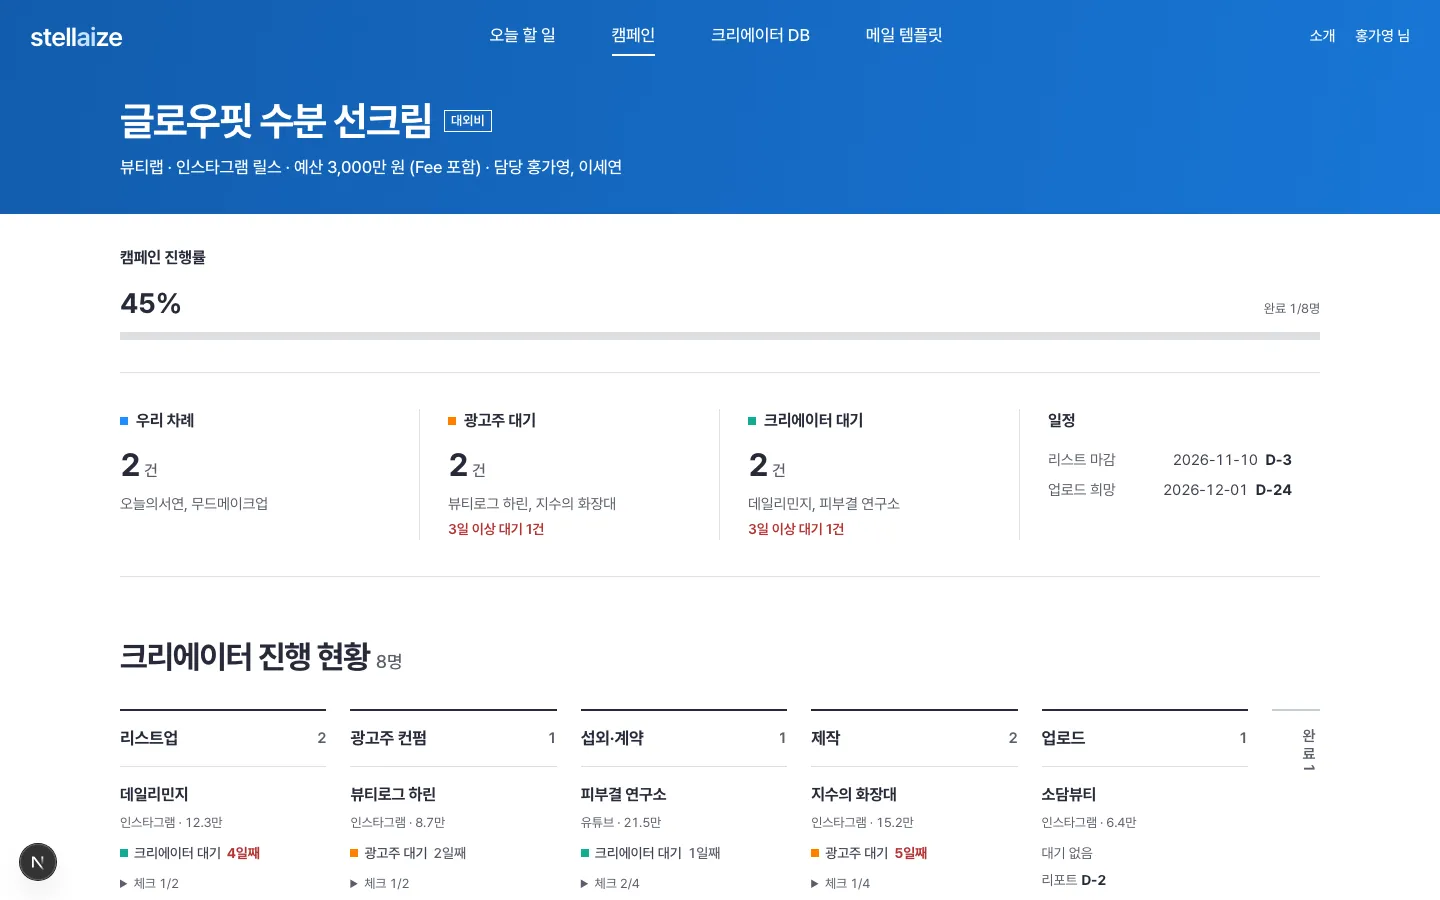
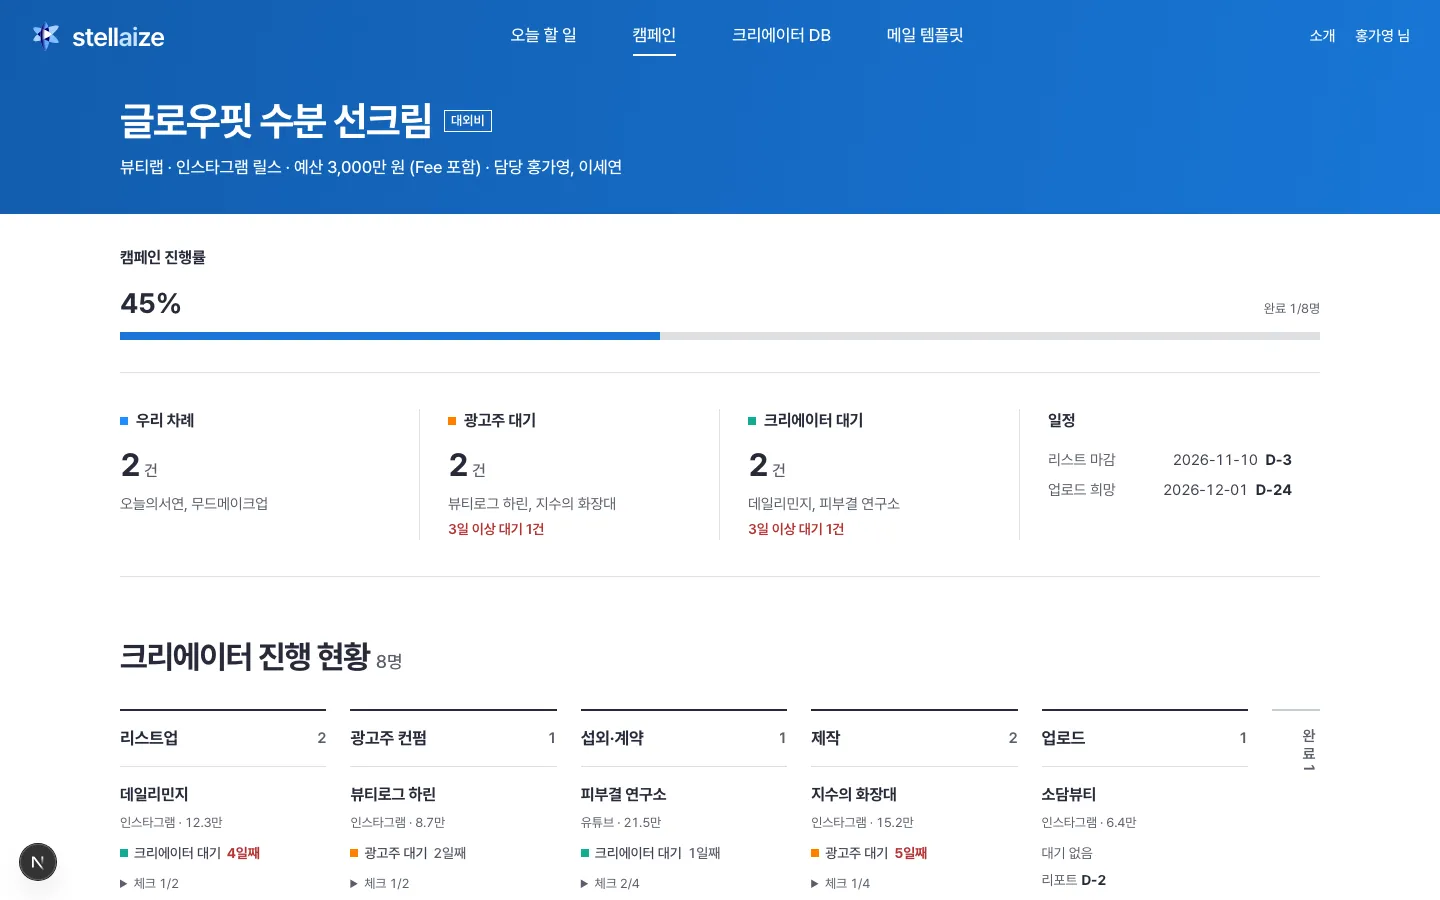
Header uses the Stellaize symbol; drop periods in the about headline

diff --git a/components/SiteHeader.tsx b/components/SiteHeader.tsx
@@ -17,9 +17,14 @@ export function SiteHeader({ userName }: { userName: string }) {
   return (
     <header className="absolute inset-x-0 top-0 z-20">
       <div className="mx-auto flex max-w-[1720px] flex-wrap items-center justify-between px-5 text-white md:h-[72px] md:flex-nowrap md:px-[30px]">
-        {/* shortcut: text wordmark in the logo's style until the official file is in public/ */}
-        <Link href="/" className="flex h-14 items-center text-[24px] font-semibold tracking-[-0.03em] md:h-auto md:text-[26px]">
-          stell<span className="text-primary-200">ai</span>ze
+        {/* Official Stellaize symbol (stellaize.com favicon). The site's wordmark is a small gray PNG that
+            disappears on blue, so the word is set in white with the logo's sky-blue "ai". */}
+        <Link href="/" aria-label="stellaize 소개로 이동" className="flex h-14 items-center gap-2.5 text-[24px] font-semibold tracking-[-0.03em] md:h-auto md:text-[26px]">
+          {/* eslint-disable-next-line @next/next/no-img-element -- static 32px SVG, no optimization needed */}
+          <img src="/logo-symbol.svg" alt="" width={32} height={32} className="size-8 rounded-[7px]" />
+          <span>
+            stell<span className="text-primary-200">ai</span>ze
+          </span>
         </Link>
         <nav className="order-last -mx-5 flex h-12 w-[calc(100%+2.5rem)] gap-7 overflow-x-auto px-5 [scrollbar-width:none] md:order-none md:mx-0 md:h-full md:w-auto md:gap-14 md:overflow-visible md:px-0">
           {MENU.map((m) => (

diff --git a/app/about/page.tsx b/app/about/page.tsx
@@ -50,12 +50,12 @@ export default function AboutPage() {
         <div className={`${wrap} grid w-full flex-1 items-center gap-12 pb-20 pt-[140px] md:grid-cols-[1.25fr_1fr] md:pt-[120px]`}>
           <div>
             <h1 className="text-[40px] font-bold leading-[1.15] tracking-[-0.04em] md:text-[72px]">
-              <span className="rise-in block">누가, 어디서,</span>
+              <span className="rise-in block">누가 어디서</span>
               <span className="rise-in block" style={delay(120)}>
-                누구를 기다리는지.
+                누구를 기다리는지
               </span>
               <span className="rise-in block" style={delay(240)}>
-                한 화면에서.
+                한 화면에서
               </span>
             </h1>
             <p className="rise-in mt-8 max-w-[520px] text-[17px] font-medium leading-relaxed md:text-[20px]" style={delay(420)}>
